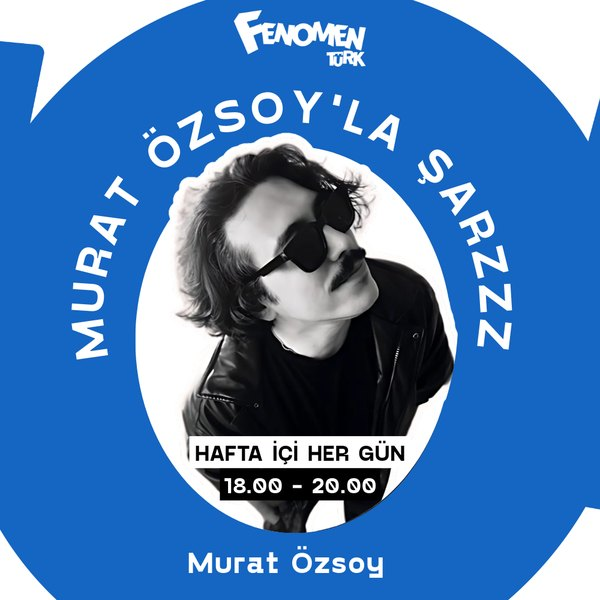
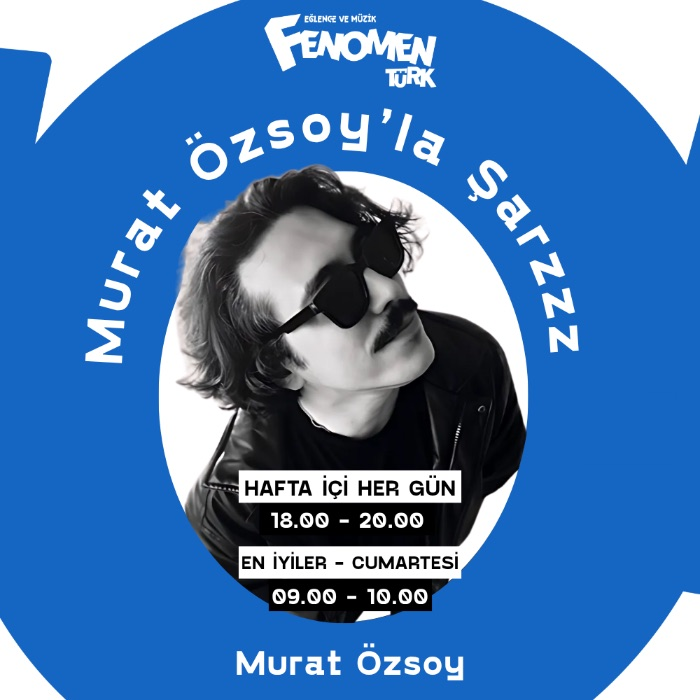
Yayıncı kartı yüklenen görseli olduğu gibi gösterir; panel görselleri depoya yükler
- Kartta rozet/karartma/daire maskesi yok, görsel aynen görünür
- Panel görselleri içerik JSON'una gömmüyor, Supabase 'gorseller' deposuna yüklüyor
- 6 gömülü yayıncı görseli yayincilar/ klasörüne dosya olarak alındı

diff --git a/admin.html b/admin.html
@@ -1223,7 +1223,7 @@ function panelRadyo(b,i){
         const Y = P+'.hosts['+j+']';
         const foto = isUp(h.photo)
           ? '<div class="chip">✓ Foto yüklendi</div><button class="btn-x" onclick="silDeger(\''+Y+'.photo\',\'\',\'Fotoğraf\')">Kaldır</button>'
-          : '<input type="text" value="'+att(h.photo)+'" placeholder="Fotoğraf yolu veya URL" oninput="'+Y+'.photo=this.value;'+Y+'.afis=false">';
+          : '<input type="text" value="'+att(h.photo)+'" placeholder="Fotoğraf yolu veya URL" oninput="'+Y+'.photo=this.value">';
         const kapak = isUp(h.cover)
           ? '<div class="chip">✓ Kapak yüklendi</div><button class="btn-x" onclick="silDeger(\''+Y+'.cover\',\'\',\'Kapak görseli\')">Kaldır</button>'
           : '<input type="text" value="'+att(h.cover)+'" placeholder="Program/afiş görseli — boş bırakılabilir" oninput="'+Y+'.cover=this.value">';
@@ -1242,7 +1242,6 @@ function panelRadyo(b,i){
           +   '<button class="del" onclick="silOge(\''+P+'.hosts\','+j+',('+Y+'||{}).name)">Sil</button>'
           + '</div>'
           + '<textarea data-max="130" placeholder="Kısa tanıtım (bio) — kartta görünür" oninput="'+Y+'.bio=this.value">'+att(h.bio)+'</textarea>'
-          + (h.afis?'<div class="hint" style="margin-bottom:6px">✓ Resmî program afişi kullanılıyor — kartta rozet ve karartma kapalı. Kendi fotoğrafını koyarsan normale döner.</div>':'')
           + '<div class="uprow">'+foto+'<button class="btn-up" onclick="pickHostPhoto('+i+','+j+')">⬆ Foto Yükle</button></div>'
           + '<img class="thumb" style="height:78px;width:78px;object-fit:cover;border-radius:12px" src="'+att(h.photo)+'" onerror="this.style.opacity=.2">'
 
@@ -1674,7 +1673,14 @@ function sayaclariKur(){
 /* ==== ORTAK ==== */
 function mv(arr,i,dir,fn){const j=i+dir;if(j<0||j>=arr.length)return;const t=arr[i];arr[i]=arr[j];arr[j]=t;fn();}
 function att(s){return String(s==null?'':s).replace(/"/g,'&quot;');}
-function isUp(s){return typeof s==='string' && s.startsWith('data:');}
+/* panelden yüklenmiş görsel: depo adresi (yeni) ya da gömülü data: (eski kayıtlar) */
+var DEPO_ONEK='/storage/v1/object/public/gorseller/';
+function isUp(s){return typeof s==='string' && (s.startsWith('data:') || s.indexOf(DEPO_ONEK)>-1);}
+function dataUrlBlob(u){
+  var i=u.indexOf(','), tur=u.slice(5,u.indexOf(';')), ham=atob(u.slice(i+1)), b=new Uint8Array(ham.length);
+  for(var k=0;k<ham.length;k++) b[k]=ham.charCodeAt(k);
+  return new Blob([b],{type:tur});
+}
 function up_thumb(inp){const img=inp.closest('.item').querySelector('.thumb');if(img){img.src=inp.value;img.style.opacity=1;}}
 function up_thumb2(inp){const img=inp.closest('.field').querySelector('.thumb');if(img){img.src=inp.value;img.style.opacity=1;}}
 function ensureArr(i,key){ if(!Array.isArray(D.radios[i][key])) D.radios[i][key]=[]; }
@@ -1729,7 +1735,7 @@ function pickRadioImg(i){pickImage(function(u){D.radios[i].img=u;yenile();},1600
 function pickRadioHero(i){pickImage(function(u){D.radios[i].hero=u;yenile();},1900,false);}
 function pickSlide(i){pickImage(function(u){D.slides[i]=u;yenile();},1800,false);}
 function pickProgramImg(i,j,g){pickImage(function(u){var L=akisDizisi(i,g);if(L[j]){L[j].img=u;yenile();}},700,false);}
-function pickHostPhoto(i,j){pickImage(function(u){ensureArr(i,'hosts');D.radios[i].hosts[j].photo=u;D.radios[i].hosts[j].afis=false;yenile();},700,false);}
+function pickHostPhoto(i,j){pickImage(function(u){ensureArr(i,'hosts');D.radios[i].hosts[j].photo=u;yenile();},700,false);}
 
 /* ============================================================
    YAYINCI DETAY SAYFASI ALANLARI
@@ -1830,9 +1836,17 @@ function optimize(file,maxW,seffaf,cb){
       if(!seffaf){ctx.fillStyle='#ffffff';ctx.fillRect(0,0,w,h);}  /* saydam PNG'ler siyah çıkmasın */
       ctx.drawImage(img,0,0,w,h);
       const url=enKucukKodla(c,seffaf);
-      cb(url);
-      toast('Görsel yüklendi ✓ '+w+'×'+h+' · '+bicimAdi(url)+' '+kbYazi(url.length)+' — Kaydet ile uygula');
-      guncelleBoyutRozeti();
+      /* Görsel içeriğe GÖMÜLMEZ: depoya dosya olarak yüklenir, içerikte
+         yalnız adresi durur. (Gömülü görseller içeriği 500 KB'ı aşırıyordu.) */
+      const bicim=bicimAdi(url), boyut=kbYazi(url.length);
+      toast('Görsel yükleniyor…');
+      BULUT.gorselYukle(dataUrlBlob(url), bicim==='JPEG'?'jpg':bicim.toLowerCase())
+        .then(function(adres){
+          cb(adres);
+          toast('Görsel yüklendi ✓ '+w+'×'+h+' · '+bicim+' '+boyut+' — Kaydet ile uygula');
+          guncelleBoyutRozeti();
+        })
+        .catch(function(err){ alert(err.message||'Görsel yüklenemedi.'); });
     };
     img.onerror=function(){alert('Görsel okunamadı.\n\niPhone HEIC dosyaları Chrome\'da açılmaz — JPG olarak kaydedip tekrar dene.');};
     img.src=rd.result;};

diff --git a/bulut.js b/bulut.js
@@ -191,6 +191,27 @@
     });
   }
 
+  /* ---- GÖRSEL: dosyayı 'gorseller' deposuna yükle (giriş şart) ----
+     Görseller içerik JSON'una gömülmez (her ziyaretçi o JSON'u indiriyor);
+     depoya dosya olarak gider, içerikte yalnız herkese açık adresi durur.
+     Yükleme izni yalnız yöneticide (storage RLS: yonetici_mi()). */
+  function gorselYukle(blob, uzanti) {
+    var t = jeton();
+    if (!t) return Promise.reject(new Error("Görsel yüklemek için önce giriş yapmalısın."));
+    var ad = new Date().toISOString().slice(0, 10) + "/" + Date.now().toString(36) +
+             Math.random().toString(36).slice(2, 8) + "." + uzanti;
+    return fetch(URL_ + "/storage/v1/object/gorseller/" + ad, {
+      method: "POST",
+      headers: { "apikey": KEY, "Authorization": "Bearer " + t,
+                 "Content-Type": blob.type, "cache-control": "max-age=31536000" },
+      body: blob
+    }).then(function (r) {
+      if (r.status === 401 || r.status === 403) throw new Error("Oturum süresi doldu ya da yükleme yetkin yok. Sayfayı yenileyip tekrar giriş yap.");
+      if (!r.ok) return r.text().then(function (t2) { throw new Error("Görsel yüklenemedi: " + (t2 || r.status)); });
+      return URL_ + "/storage/v1/object/public/gorseller/" + ad;
+    });
+  }
+
   /* ------------------------------------------------------------
      SÜRÜM GEÇMİŞİ
      Her kayıttan ÖNCEKİ hâl `site_icerik_gecmis` tablosuna düşer.
@@ -355,6 +376,7 @@
     onbellekZamani: onbellekZamani,
     giris: bulutGiris,
     yaz: bulutYaz,
+    gorselYukle: gorselYukle,
     gecmis: bulutGecmis,
     ziyaretOzet: ziyaretOzet,
     jeton: jeton,

diff --git a/y/fenomen-deniz-gorkem-kaya/index.html b/y/fenomen-deniz-gorkem-kaya/index.html
@@ -27,14 +27,14 @@
 <meta property="og:title" id="ogTitle" content="Deniz Görkem Kaya — Deniz Görkem’le Update | Radyo Fenomen">
 <meta property="og:description" id="ogDesc" content="Deniz Görkem, Radyo Fenomen ekibinin mikrofon arkasındaki isimlerinden. Ayrıntılı tanıtım yazısı yakında bu bölümde olacak.">
 <meta property="og:url" id="ogUrl" content="https://eray-ai.github.io/bayrakstar-site/y/fenomen-deniz-gorkem-kaya/">
-<meta property="og:image" id="ogImage" content="https://eray-ai.github.io/bayrakstar-site/yayincilar/fenomen-deniz-gorkem.jpg">
+<meta property="og:image" id="ogImage" content="https://eray-ai.github.io/bayrakstar-site/og/fenomen.jpg">
 <meta property="og:image:width" content="1200">
 <meta property="og:image:height" content="630">
 <meta property="og:image:alt" id="ogImageAlt" content="Bayrakstar logosu">
 <meta name="twitter:card" content="summary_large_image">
 <meta name="twitter:title" id="twTitle" content="Deniz Görkem Kaya — Deniz Görkem’le Update | Radyo Fenomen">
 <meta name="twitter:description" id="twDesc" content="Deniz Görkem, Radyo Fenomen ekibinin mikrofon arkasındaki isimlerinden. Ayrıntılı tanıtım yazısı yakında bu bölümde olacak.">
-<meta name="twitter:image" id="twImage" content="https://eray-ai.github.io/bayrakstar-site/yayincilar/fenomen-deniz-gorkem.jpg">
+<meta name="twitter:image" id="twImage" content="https://eray-ai.github.io/bayrakstar-site/og/fenomen.jpg">
 <link rel="canonical" id="canonLink" href="https://eray-ai.github.io/bayrakstar-site/y/fenomen-deniz-gorkem-kaya/">
 
 <link rel="preconnect" href="https://fonts.googleapis.com">

diff --git a/y/fenomen-onur-kaymak/index.html b/y/fenomen-onur-kaymak/index.html
@@ -27,14 +27,14 @@
 <meta property="og:title" id="ogTitle" content="Onur Kaymak — DJ K-Billy’le Fenomen Hit Müzik | Radyo Fenomen">
 <meta property="og:description" id="ogDesc" content="DJ K-Billy, Radyo Fenomen ekibinin mikrofon arkasındaki isimlerinden. Ayrıntılı tanıtım yazısı yakında bu bölümde olacak.">
 <meta property="og:url" id="ogUrl" content="https://eray-ai.github.io/bayrakstar-site/y/fenomen-onur-kaymak/">
-<meta property="og:image" id="ogImage" content="https://eray-ai.github.io/bayrakstar-site/yayincilar/fenomen-dj-k-billy.jpg">
+<meta property="og:image" id="ogImage" content="https://eray-ai.github.io/bayrakstar-site/og/fenomen.jpg">
 <meta property="og:image:width" content="1200">
 <meta property="og:image:height" content="630">
 <meta property="og:image:alt" id="ogImageAlt" content="Bayrakstar logosu">
 <meta name="twitter:card" content="summary_large_image">
 <meta name="twitter:title" id="twTitle" content="Onur Kaymak — DJ K-Billy’le Fenomen Hit Müzik | Radyo Fenomen">
 <meta name="twitter:description" id="twDesc" content="DJ K-Billy, Radyo Fenomen ekibinin mikrofon arkasındaki isimlerinden. Ayrıntılı tanıtım yazısı yakında bu bölümde olacak.">
-<meta name="twitter:image" id="twImage" content="https://eray-ai.github.io/bayrakstar-site/yayincilar/fenomen-dj-k-billy.jpg">
+<meta name="twitter:image" id="twImage" content="https://eray-ai.github.io/bayrakstar-site/og/fenomen.jpg">
 <link rel="canonical" id="canonLink" href="https://eray-ai.github.io/bayrakstar-site/y/fenomen-onur-kaymak/">
 
 <link rel="preconnect" href="https://fonts.googleapis.com">

diff --git a/y/fenomen-serdar-kocak/index.html b/y/fenomen-serdar-kocak/index.html
@@ -27,14 +27,14 @@
 <meta property="og:title" id="ogTitle" content="Serdar — Serdar’la Sabah Modu | Radyo Fenomen">
 <meta property="og:description" id="ogDesc" content="Serdar, Radyo Fenomen ekibinin mikrofon arkasındaki isimlerinden. Ayrıntılı tanıtım yazısı yakında bu bölümde olacak.">
 <meta property="og:url" id="ogUrl" content="https://eray-ai.github.io/bayrakstar-site/y/fenomen-serdar-kocak/">
-<meta property="og:image" id="ogImage" content="https://eray-ai.github.io/bayrakstar-site/yayincilar/fenomen-serdar.jpg">
+<meta property="og:image" id="ogImage" content="https://eray-ai.github.io/bayrakstar-site/og/fenomen.jpg">
 <meta property="og:image:width" content="1200">
 <meta property="og:image:height" content="630">
 <meta property="og:image:alt" id="ogImageAlt" content="Bayrakstar logosu">
 <meta name="twitter:card" content="summary_large_image">
 <meta name="twitter:title" id="twTitle" content="Serdar — Serdar’la Sabah Modu | Radyo Fenomen">
 <meta name="twitter:description" id="twDesc" content="Serdar, Radyo Fenomen ekibinin mikrofon arkasındaki isimlerinden. Ayrıntılı tanıtım yazısı yakında bu bölümde olacak.">
-<meta name="twitter:image" id="twImage" content="https://eray-ai.github.io/bayrakstar-site/yayincilar/fenomen-serdar.jpg">
+<meta name="twitter:image" id="twImage" content="https://eray-ai.github.io/bayrakstar-site/og/fenomen.jpg">
 <link rel="canonical" id="canonLink" href="https://eray-ai.github.io/bayrakstar-site/y/fenomen-serdar-kocak/">
 
 <link rel="preconnect" href="https://fonts.googleapis.com">

diff --git a/r/boombox/index.html b/r/boombox/index.html
@@ -674,12 +674,12 @@ document.getElementById('aboutText').textContent = R.about || '';
        kart görseline düşüyordu). Marka bloğu + logo gösterilir; gerçek
        fotoğraf panelden eklenince kart kendiliğinden normale döner. */
     var gorselBlok = foto
-      ? '<div class="ph"><img src="'+esc(foto)+'" alt="'+esc(h.name)+'" onerror="this.style.opacity=.3">'+
-        (h.show && !h.afis ? '<span class="badge">'+esc(h.show)+'</span>' : '')+'</div>'
+      ? '<div class="ph"><img src="'+esc(foto)+'" alt="'+esc(h.name)+'" onerror="this.style.opacity=.3"></div>'
       : '<div class="ph fotosuz"><img src="'+esc(R.logo||'')+'" alt="" aria-hidden="true" '+
         'onerror="this.style.display=\'none\'"></div>';
-    /* h.afis = resmî program afişi: kendi yazısı var, rozet+karartma bindirme */
-    var sinif = 'host'+(h.afis&&foto?' afisli':'');
+    /* Panelden yüklenen görsel NE İSE o görünür: rozet, karartma, daire
+       maskesi yok (hepsi 'afisli' sınıfıyla kapalı). */
+    var sinif = 'host'+(foto?' afisli':'');
     var ic = gorselBlok +
       '<div class="in"><div class="hn">'+esc(h.name)+'</div>'+(h.show?'<div class="hs">'+esc(h.show)+'</div>':'')+
       (h.bio?'<div class="hb">'+esc(h.bio)+'</div>':'')+'</div>';

diff --git a/r/fenomen/index.html b/r/fenomen/index.html
@@ -674,12 +674,12 @@ document.getElementById('aboutText').textContent = R.about || '';
        kart görseline düşüyordu). Marka bloğu + logo gösterilir; gerçek
        fotoğraf panelden eklenince kart kendiliğinden normale döner. */
     var gorselBlok = foto
-      ? '<div class="ph"><img src="'+esc(foto)+'" alt="'+esc(h.name)+'" onerror="this.style.opacity=.3">'+
-        (h.show && !h.afis ? '<span class="badge">'+esc(h.show)+'</span>' : '')+'</div>'
+      ? '<div class="ph"><img src="'+esc(foto)+'" alt="'+esc(h.name)+'" onerror="this.style.opacity=.3"></div>'
       : '<div class="ph fotosuz"><img src="'+esc(R.logo||'')+'" alt="" aria-hidden="true" '+
         'onerror="this.style.display=\'none\'"></div>';
-    /* h.afis = resmî program afişi: kendi yazısı var, rozet+karartma bindirme */
-    var sinif = 'host'+(h.afis&&foto?' afisli':'');
+    /* Panelden yüklenen görsel NE İSE o görünür: rozet, karartma, daire
+       maskesi yok (hepsi 'afisli' sınıfıyla kapalı). */
+    var sinif = 'host'+(foto?' afisli':'');
     var ic = gorselBlok +
       '<div class="in"><div class="hn">'+esc(h.name)+'</div>'+(h.show?'<div class="hs">'+esc(h.show)+'</div>':'')+
       (h.bio?'<div class="hb">'+esc(h.bio)+'</div>':'')+'</div>';

diff --git a/r/fenomenturk/index.html b/r/fenomenturk/index.html
@@ -674,12 +674,12 @@ document.getElementById('aboutText').textContent = R.about || '';
        kart görseline düşüyordu). Marka bloğu + logo gösterilir; gerçek
        fotoğraf panelden eklenince kart kendiliğinden normale döner. */
     var gorselBlok = foto
-      ? '<div class="ph"><img src="'+esc(foto)+'" alt="'+esc(h.name)+'" onerror="this.style.opacity=.3">'+
-        (h.show && !h.afis ? '<span class="badge">'+esc(h.show)+'</span>' : '')+'</div>'
+      ? '<div class="ph"><img src="'+esc(foto)+'" alt="'+esc(h.name)+'" onerror="this.style.opacity=.3"></div>'
       : '<div class="ph fotosuz"><img src="'+esc(R.logo||'')+'" alt="" aria-hidden="true" '+
         'onerror="this.style.display=\'none\'"></div>';
-    /* h.afis = resmî program afişi: kendi yazısı var, rozet+karartma bindirme */
-    var sinif = 'host'+(h.afis&&foto?' afisli':'');
+    /* Panelden yüklenen görsel NE İSE o görünür: rozet, karartma, daire
+       maskesi yok (hepsi 'afisli' sınıfıyla kapalı). */
+    var sinif = 'host'+(foto?' afisli':'');
     var ic = gorselBlok +
       '<div class="in"><div class="hn">'+esc(h.name)+'</div>'+(h.show?'<div class="hs">'+esc(h.show)+'</div>':'')+
       (h.bio?'<div class="hb">'+esc(h.bio)+'</div>':'')+'</div>';

diff --git a/r/istanbulfm/index.html b/r/istanbulfm/index.html
@@ -674,12 +674,12 @@ document.getElementById('aboutText').textContent = R.about || '';
        kart görseline düşüyordu). Marka bloğu + logo gösterilir; gerçek
        fotoğraf panelden eklenince kart kendiliğinden normale döner. */
     var gorselBlok = foto
-      ? '<div class="ph"><img src="'+esc(foto)+'" alt="'+esc(h.name)+'" onerror="this.style.opacity=.3">'+
-        (h.show && !h.afis ? '<span class="badge">'+esc(h.show)+'</span>' : '')+'</div>'
+      ? '<div class="ph"><img src="'+esc(foto)+'" alt="'+esc(h.name)+'" onerror="this.style.opacity=.3"></div>'
       : '<div class="ph fotosuz"><img src="'+esc(R.logo||'')+'" alt="" aria-hidden="true" '+
         'onerror="this.style.display=\'none\'"></div>';
-    /* h.afis = resmî program afişi: kendi yazısı var, rozet+karartma bindirme */
-    var sinif = 'host'+(h.afis&&foto?' afisli':'');
+    /* Panelden yüklenen görsel NE İSE o görünür: rozet, karartma, daire
+       maskesi yok (hepsi 'afisli' sınıfıyla kapalı). */
+    var sinif = 'host'+(foto?' afisli':'');
     var ic = gorselBlok +
       '<div class="in"><div class="hn">'+esc(h.name)+'</div>'+(h.show?'<div class="hs">'+esc(h.show)+'</div>':'')+
       (h.bio?'<div class="hb">'+esc(h.bio)+'</div>':'')+'</div>';

diff --git a/radyo.html b/radyo.html
@@ -673,12 +673,12 @@ document.getElementById('aboutText').textContent = R.about || '';
        kart görseline düşüyordu). Marka bloğu + logo gösterilir; gerçek
        fotoğraf panelden eklenince kart kendiliğinden normale döner. */
     var gorselBlok = foto
-      ? '<div class="ph"><img src="'+esc(foto)+'" alt="'+esc(h.name)+'" onerror="this.style.opacity=.3">'+
-        (h.show && !h.afis ? '<span class="badge">'+esc(h.show)+'</span>' : '')+'</div>'
+      ? '<div class="ph"><img src="'+esc(foto)+'" alt="'+esc(h.name)+'" onerror="this.style.opacity=.3"></div>'
       : '<div class="ph fotosuz"><img src="'+esc(R.logo||'')+'" alt="" aria-hidden="true" '+
         'onerror="this.style.display=\'none\'"></div>';
-    /* h.afis = resmî program afişi: kendi yazısı var, rozet+karartma bindirme */
-    var sinif = 'host'+(h.afis&&foto?' afisli':'');
+    /* Panelden yüklenen görsel NE İSE o görünür: rozet, karartma, daire
+       maskesi yok (hepsi 'afisli' sınıfıyla kapalı). */
+    var sinif = 'host'+(foto?' afisli':'');
     var ic = gorselBlok +
       '<div class="in"><div class="hn">'+esc(h.name)+'</div>'+(h.show?'<div class="hs">'+esc(h.show)+'</div>':'')+
       (h.bio?'<div class="hb">'+esc(h.bio)+'</div>':'')+'</div>';
